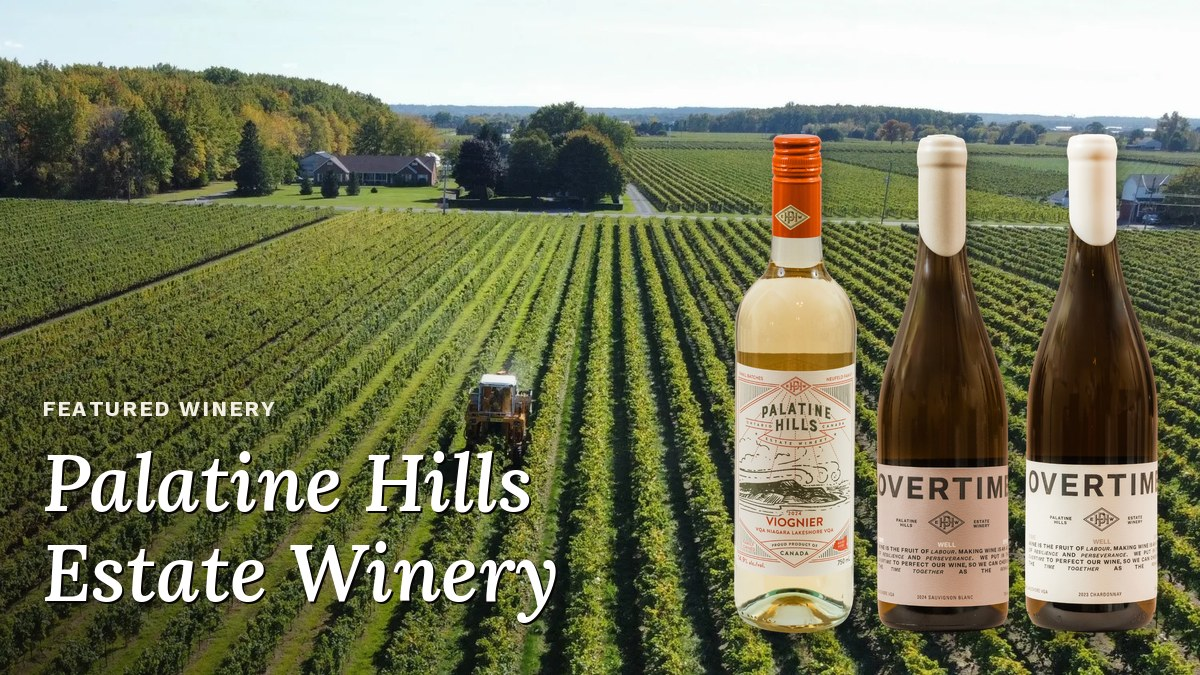
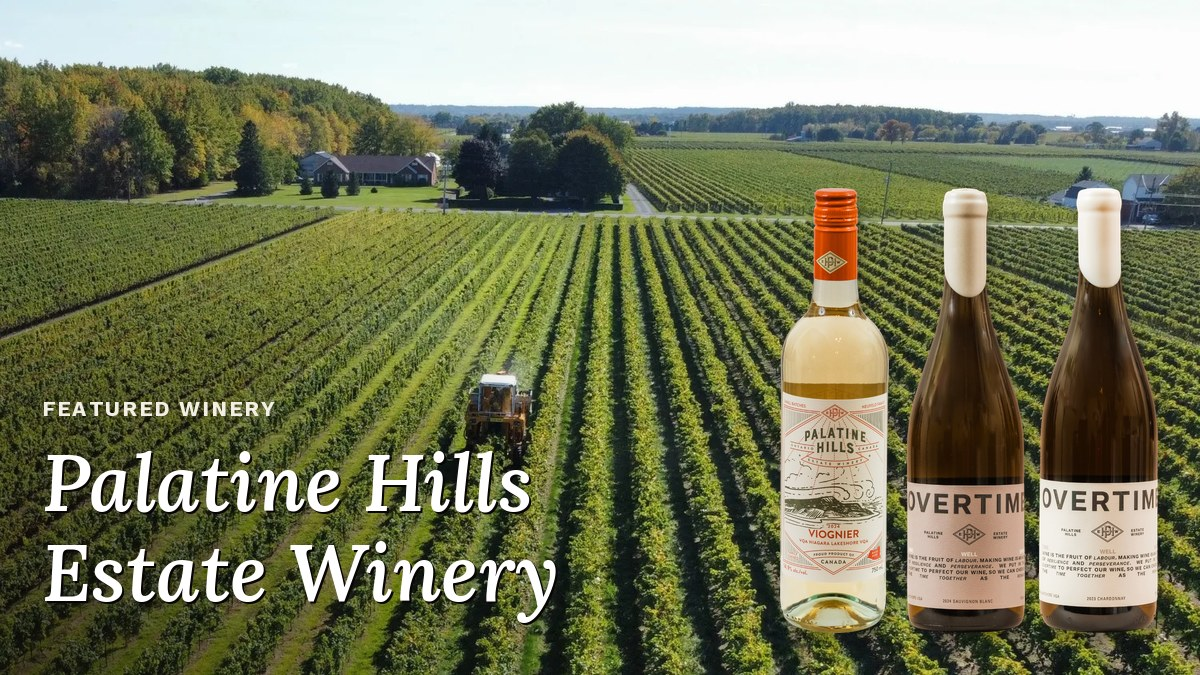
composite_hero cluster: one bottle size for every pack, name always Palatine Hills / Estate Winery
Claude-Session: https://claude.ai/code/session_013ofgVCTqpQ4DGdaq1KbZcs

Changed region(s): [[0.5858, 0.1867, 0.9867, 0.9644]]

diff --git a/scripts/composite_hero.py b/scripts/composite_hero.py
@@ -262,7 +262,10 @@ def add_winery_name(canvas: Image.Image, winery_name: str, eyebrow: str = "FEATU
     eyebrow_font = ImageFont.truetype(str(EYEBROW_FONT_PATH), eyebrow_size)
     name_font = load_name_font(name_size, bold)
 
-    lines = _wrap_name(draw, winery_name, name_font, max_width) if max_width else [winery_name]
+    if bold and winery_name.endswith(" Estate Winery"):  # cluster hero: the same two lines for every pack
+        lines = [winery_name[:-len(" Estate Winery")], "Estate Winery"]
+    else:
+        lines = _wrap_name(draw, winery_name, name_font, max_width) if max_width else [winery_name]
     while max_width and len(lines) > 2 and name_size > 30:  # a long name shrinks rather than running to a third line
         name_size -= 4
         name_font = load_name_font(name_size, bold)
@@ -302,7 +305,7 @@ def place_cluster(canvas: Image.Image, bottles: list[Image.Image]):
     slightly smaller and higher for depth. Wines keep list order, alternating front/back. Returns the cluster's left edge."""
     n = len(bottles)
     front_n = min(n, 3)  # three bottles always stand in front; only a fourth and beyond go behind
-    front_h = int(CANVAS_H * (0.66 if n > 3 else 0.74))
+    front_h = int(CANVAS_H * 0.66)  # one bottle size for every pack, so the heroes read as a set
     back_h = int(front_h * 0.88)
     if n <= 3:
         slots = [("front", i, i) for i in range(n)]
